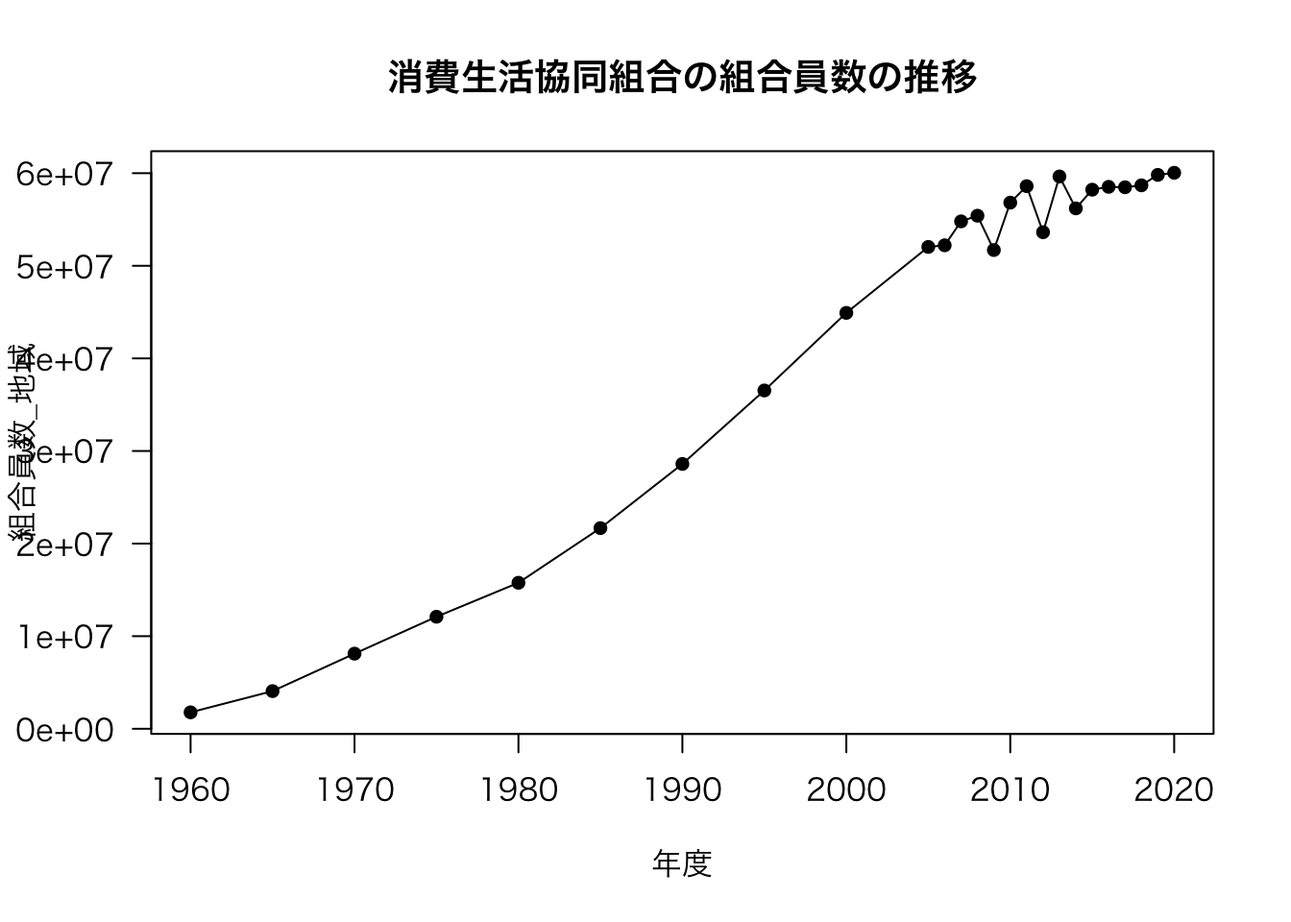
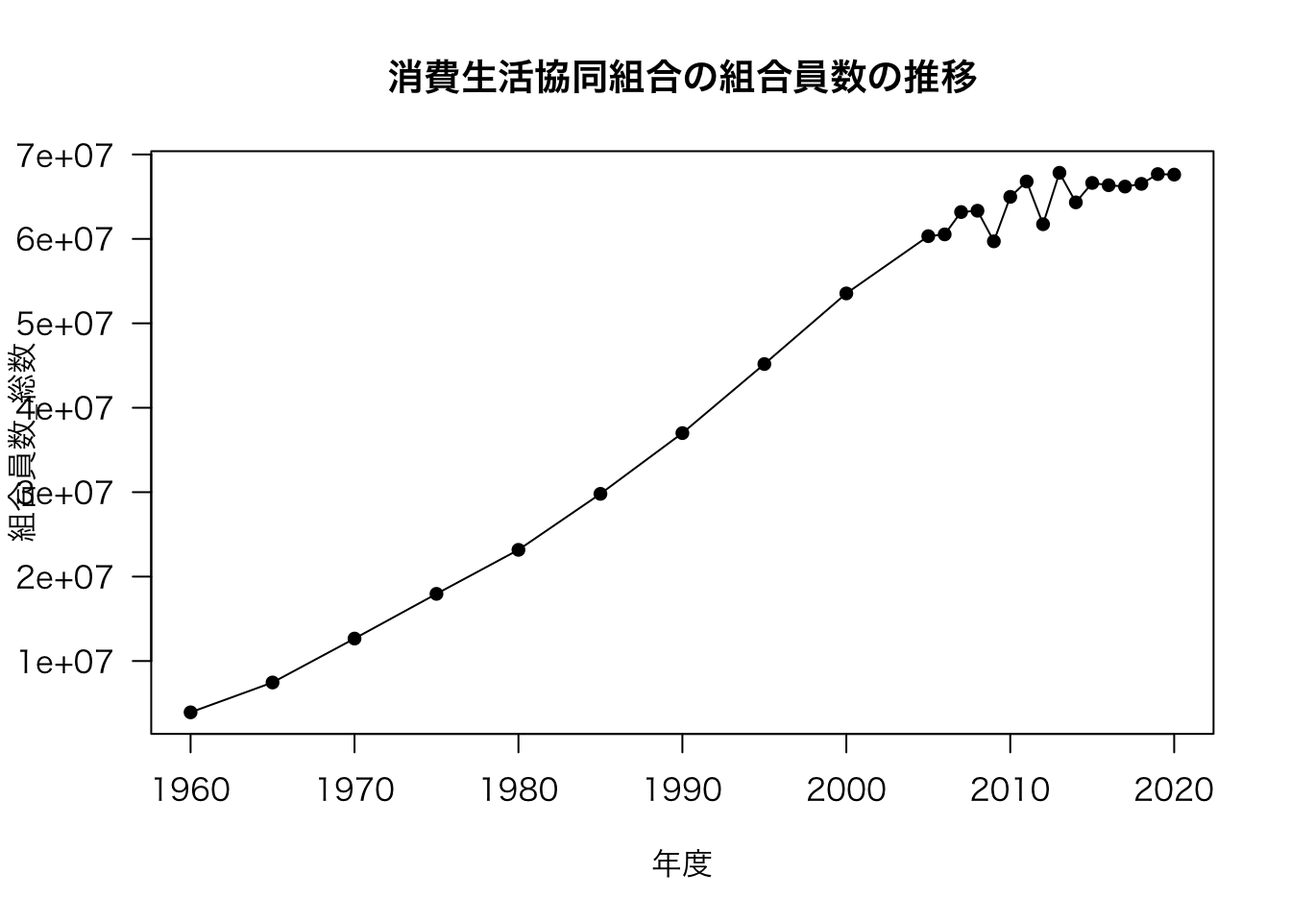
commit

diff --git a/docs/09_map.html b/docs/09_map.html
@@ -143,7 +143,7 @@ pre > code.sourceCode > span > a:first-child::before { text-decoration: underlin
 <p>r006-02-002.xlsという名前のファイルがダウンロードできる。 このファイルをRで読み込む前に，Excelで開いてみる。 これは参った。 ヘッダーがゴチャゴチャしている。 ここで，Excelではグラフ作成時にセルを指定できるから何の問題もないと考える人にとっては，以下の説明は無益である。</p>
 <section id="e-statからデータ取得" class="level2" data-number="1">
 <h2 data-number="1" class="anchored" data-anchor-id="e-statからデータ取得"><span class="header-section-number">1</span> e-Statからデータ取得</h2>
-<p><a href="https://takeshinishimura.github.io/Cooperative/02_stats_estatapi.html" target="_blank">統計データを用いた作図：e-Stat編</a>の後半では，e-StatのAPIを使って，Rに統計データを取り込んだ。 ここでも同様のことが可能である。</p>
+<p><a href="https://takeshinishimura.github.io/Cooperative/02_stats_estatapi.html" target="_blank">統計データを用いた作図：e-Stat（API）編</a>の後半では，e-StatのAPIを使って，Rに統計データを取り込んだ。 ここでも同様のことが可能である。</p>
 <p>早速，次のコードを実行し，欲しいデータが取得しよう。 なお，statsDataId = “0002003132”の数字は，e-Statの<a href="https://www.e-stat.go.jp/dbview?sid=0002003132" target="_blank">農業協同組合等現在数統計 確報 令和３年度農業協同組合等現在数統計単位農協の部 1 都道府県別業種別現在数 総括表 出資組合（第２表）、非出資組合（第３表）</a>のページを指すIDである。</p>
 <div class="cell">
 <div class="sourceCode cell-code" id="cb1"><pre class="sourceCode r code-with-copy"><code class="sourceCode r"><span id="cb1-1"><a href="#cb1-1" aria-hidden="true" tabindex="-1"></a><span class="fu">library</span>(httr)</span>
@@ -199,8 +199,8 @@ pre > code.sourceCode > span > a:first-child::before { text-decoration: underlin
 <span id="cb1-51"><a href="#cb1-51" aria-hidden="true" tabindex="-1"></a>)</span></code><button title="コピー" class="code-copy-button"><i class="bi"></i></button></pre></div>
 <div class="cell-output-display">
 
-<div class="datatables html-widget html-fill-item-overflow-hidden html-fill-item" id="htmlwidget-b7a43cce8c51b6d98c5c" style="width:100%;height:auto;"></div>
-<script type="application/json" data-for="htmlwidget-b7a43cce8c51b6d98c5c">{"x":{"filter":"none","vertical":false,"extensions":["Buttons","ColReorder"],"caption":"<caption>都道府県別業種別現在数 - 出資組合（第２表）<\/caption>","data":[["北海道","青森","岩手","宮城","秋田","山形","福島","茨城","栃木","群馬","埼玉","千葉","東京","神奈川","山梨","長野","静岡","新潟","富山","石川","福井","岐阜","愛知","三重","滋賀","京都","大阪","兵庫","奈良","和歌山","鳥取","島根","岡山","広島","山口","徳島","香川","愛媛","高知","福岡","佐賀","長崎","熊本","大分","宮崎","鹿児島","沖縄"],[2,1,1,2,null,null,2,1,null,null,1,null,null,null,2,13,2,null,null,null,4,1,null,null,null,null,null,null,null,null,5,null,null,3,3,null,null,1,null,null,null,3,null,null,2,null,null],[4,6,null,null,null,null,1,null,2,2,null,null,5,null,null,1,6,null,null,null,null,null,3,1,null,2,3,5,null,null,2,1,4,null,1,null,null,null,null,1,null,null,2,3,null,null,null],[1,null,3,null,2,1,2,5,1,null,2,1,2,null,null,4,76,1,2,1,2,2,4,2,null,1,1,null,1,1,2,null,2,1,2,null,1,1,3,5,1,5,3,2,4,3,1],[135,37,31,16,21,18,12,30,19,21,23,26,23,15,14,51,107,26,21,19,13,14,32,14,10,9,28,23,4,10,15,4,15,22,15,21,4,16,10,28,5,23,32,9,28,23,4],[109,10,9,10,13,15,5,17,12,15,16,17,15,12,8,15,17,23,15,16,2,7,20,7,9,5,14,14,1,8,3,1,2,16,3,13,1,11,4,20,4,7,13,3,13,14,1],[104,10,7,10,13,15,5,17,10,15,15,17,15,12,8,14,17,23,15,16,2,7,20,7,9,5,14,14,1,8,3,1,2,13,3,13,1,11,4,20,4,7,13,3,13,13,1],[3,null,null,null,null,null,null,null,null,null,null,null,1,null,null,null,null,null,null,null,null,null,null,null,null,null,null,null,null,null,null,null,null,null,null,null,null,null,1,null,null,null,null,null,null,null,null],[3,null,null,null,null,null,null,null,null,null,null,null,1,null,null,null,null,null,null,null,null,null,null,null,null,null,null,null,null,null,null,null,null,null,null,null,null,null,1,null,null,null,null,null,null,null,null],[9,10,3,null,3,null,null,2,null,1,1,2,null,null,null,null,null,null,1,1,1,null,1,null,null,null,2,null,1,null,1,null,null,null,1,1,null,null,null,1,null,1,2,null,4,1,null],[null,null,null,null,null,null,null,null,null,null,null,null,null,null,null,10,null,1,null,null,null,null,null,null,null,null,null,null,null,null,null,null,null,null,1,2,null,null,null,null,null,null,null,null,null,null,null],[2,1,1,null,null,null,null,null,null,null,null,null,null,null,null,null,2,null,null,null,null,null,null,null,1,null,1,null,null,null,null,1,null,null,null,null,1,null,null,null,null,null,null,null,null,null,null],[1,8,12,1,null,null,1,null,null,null,null,null,null,null,1,6,null,null,null,null,1,null,null,null,null,null,null,null,null,null,1,null,3,null,null,null,null,null,null,null,null,null,1,null,null,2,null],[2,1,null,1,null,null,null,null,null,null,1,null,null,2,null,null,null,null,null,null,1,1,3,null,null,1,3,1,1,1,null,null,1,1,1,4,null,1,1,null,null,2,1,null,3,2,1],[5,null,2,2,3,2,1,5,4,3,2,6,1,1,3,2,4,1,3,1,2,3,1,4,null,null,4,3,null,null,1,1,3,1,3,1,1,2,2,1,null,5,10,1,2,1,1]],"container":"<table class=\"display\">\n  <thead>\n    <tr>\n      <th> <\/th>\n      <th>その他<\/th>\n      <th>一般農協<\/th>\n      <th>園芸特産<\/th>\n      <th>出資組合計<\/th>\n      <th>総合農協<\/th>\n      <th>総合農協_うち共済事業を行う農協<\/th>\n      <th>総合農協_うち共済事業を行う農協_業務代理農協<\/th>\n      <th>総合農協_業務代理農協<\/th>\n      <th>畜産<\/th>\n      <th>農事放送<\/th>\n      <th>農村工業<\/th>\n      <th>牧野管理<\/th>\n      <th>養鶏<\/th>\n      <th>酪農<\/th>\n    <\/tr>\n  <\/thead>\n<\/table>","options":{"pageLength":10,"dom":"Blfrtip","buttons":[["csv","excel"],["colvis"]],"colReorder":true,"columnDefs":[{"className":"dt-right","targets":[1,2,3,4,5,6,7,8,9,10,11,12,13,14]},{"orderable":false,"targets":0}],"order":[],"autoWidth":false,"orderClasses":false}},"evals":[],"jsHooks":[]}</script>
+<div class="datatables html-widget html-fill-item-overflow-hidden html-fill-item" id="htmlwidget-5d75d951227c5082edfd" style="width:100%;height:auto;"></div>
+<script type="application/json" data-for="htmlwidget-5d75d951227c5082edfd">{"x":{"filter":"none","vertical":false,"extensions":["Buttons","ColReorder"],"caption":"<caption>都道府県別業種別現在数 - 出資組合（第２表）<\/caption>","data":[["北海道","青森","岩手","宮城","秋田","山形","福島","茨城","栃木","群馬","埼玉","千葉","東京","神奈川","山梨","長野","静岡","新潟","富山","石川","福井","岐阜","愛知","三重","滋賀","京都","大阪","兵庫","奈良","和歌山","鳥取","島根","岡山","広島","山口","徳島","香川","愛媛","高知","福岡","佐賀","長崎","熊本","大分","宮崎","鹿児島","沖縄"],[2,1,1,2,null,null,2,1,null,null,1,null,null,null,2,13,2,null,null,null,4,1,null,null,null,null,null,null,null,null,5,null,null,3,3,null,null,1,null,null,null,3,null,null,2,null,null],[4,6,null,null,null,null,1,null,2,2,null,null,5,null,null,1,6,null,null,null,null,null,3,1,null,2,3,5,null,null,2,1,4,null,1,null,null,null,null,1,null,null,2,3,null,null,null],[1,null,3,null,2,1,2,5,1,null,2,1,2,null,null,4,76,1,2,1,2,2,4,2,null,1,1,null,1,1,2,null,2,1,2,null,1,1,3,5,1,5,3,2,4,3,1],[135,37,31,16,21,18,12,30,19,21,23,26,23,15,14,51,107,26,21,19,13,14,32,14,10,9,28,23,4,10,15,4,15,22,15,21,4,16,10,28,5,23,32,9,28,23,4],[109,10,9,10,13,15,5,17,12,15,16,17,15,12,8,15,17,23,15,16,2,7,20,7,9,5,14,14,1,8,3,1,2,16,3,13,1,11,4,20,4,7,13,3,13,14,1],[104,10,7,10,13,15,5,17,10,15,15,17,15,12,8,14,17,23,15,16,2,7,20,7,9,5,14,14,1,8,3,1,2,13,3,13,1,11,4,20,4,7,13,3,13,13,1],[3,null,null,null,null,null,null,null,null,null,null,null,1,null,null,null,null,null,null,null,null,null,null,null,null,null,null,null,null,null,null,null,null,null,null,null,null,null,1,null,null,null,null,null,null,null,null],[3,null,null,null,null,null,null,null,null,null,null,null,1,null,null,null,null,null,null,null,null,null,null,null,null,null,null,null,null,null,null,null,null,null,null,null,null,null,1,null,null,null,null,null,null,null,null],[9,10,3,null,3,null,null,2,null,1,1,2,null,null,null,null,null,null,1,1,1,null,1,null,null,null,2,null,1,null,1,null,null,null,1,1,null,null,null,1,null,1,2,null,4,1,null],[null,null,null,null,null,null,null,null,null,null,null,null,null,null,null,10,null,1,null,null,null,null,null,null,null,null,null,null,null,null,null,null,null,null,1,2,null,null,null,null,null,null,null,null,null,null,null],[2,1,1,null,null,null,null,null,null,null,null,null,null,null,null,null,2,null,null,null,null,null,null,null,1,null,1,null,null,null,null,1,null,null,null,null,1,null,null,null,null,null,null,null,null,null,null],[1,8,12,1,null,null,1,null,null,null,null,null,null,null,1,6,null,null,null,null,1,null,null,null,null,null,null,null,null,null,1,null,3,null,null,null,null,null,null,null,null,null,1,null,null,2,null],[2,1,null,1,null,null,null,null,null,null,1,null,null,2,null,null,null,null,null,null,1,1,3,null,null,1,3,1,1,1,null,null,1,1,1,4,null,1,1,null,null,2,1,null,3,2,1],[5,null,2,2,3,2,1,5,4,3,2,6,1,1,3,2,4,1,3,1,2,3,1,4,null,null,4,3,null,null,1,1,3,1,3,1,1,2,2,1,null,5,10,1,2,1,1]],"container":"<table class=\"display\">\n  <thead>\n    <tr>\n      <th> <\/th>\n      <th>その他<\/th>\n      <th>一般農協<\/th>\n      <th>園芸特産<\/th>\n      <th>出資組合計<\/th>\n      <th>総合農協<\/th>\n      <th>総合農協_うち共済事業を行う農協<\/th>\n      <th>総合農協_うち共済事業を行う農協_業務代理農協<\/th>\n      <th>総合農協_業務代理農協<\/th>\n      <th>畜産<\/th>\n      <th>農事放送<\/th>\n      <th>農村工業<\/th>\n      <th>牧野管理<\/th>\n      <th>養鶏<\/th>\n      <th>酪農<\/th>\n    <\/tr>\n  <\/thead>\n<\/table>","options":{"pageLength":10,"dom":"Blfrtip","buttons":[["csv","excel"],["colvis"]],"colReorder":true,"columnDefs":[{"className":"dt-right","targets":[1,2,3,4,5,6,7,8,9,10,11,12,13,14]},{"orderable":false,"targets":0}],"order":[],"autoWidth":false,"orderClasses":false}},"evals":[],"jsHooks":[]}</script>
 </div>
 <div class="sourceCode cell-code" id="cb2"><pre class="sourceCode r code-with-copy"><code class="sourceCode r"><span id="cb2-1"><a href="#cb2-1" aria-hidden="true" tabindex="-1"></a>caption <span class="ot">&lt;-</span> <span class="st">"都道府県別業種別現在数 - 非出資組合（第３表）"</span></span>
 <span id="cb2-2"><a href="#cb2-2" aria-hidden="true" tabindex="-1"></a>DT<span class="sc">::</span><span class="fu">datatable</span>(</span>
@@ -218,8 +218,8 @@ pre > code.sourceCode > span > a:first-child::before { text-decoration: underlin
 <span id="cb2-14"><a href="#cb2-14" aria-hidden="true" tabindex="-1"></a>)</span></code><button title="コピー" class="code-copy-button"><i class="bi"></i></button></pre></div>
 <div class="cell-output-display">
 
-<div class="datatables html-widget html-fill-item-overflow-hidden html-fill-item" id="htmlwidget-5ce6cdba568df1d51d55" style="width:100%;height:auto;"></div>
-<script type="application/json" data-for="htmlwidget-5ce6cdba568df1d51d55">{"x":{"filter":"none","vertical":false,"extensions":["Buttons","ColReorder"],"caption":"<caption>都道府県別業種別現在数 - 非出資組合（第３表）<\/caption>","data":[["北海道","青森","岩手","宮城","秋田","山形","福島","茨城","栃木","群馬","埼玉","千葉","東京","神奈川","山梨","長野","静岡","新潟","富山","石川","福井","岐阜","愛知","三重","滋賀","京都","大阪","兵庫","奈良","和歌山","鳥取","島根","岡山","広島","山口","徳島","香川","愛媛","高知","福岡","佐賀","長崎","熊本","大分","宮崎","鹿児島","沖縄"],[4,8,6,1,null,null,null,null,1,null,null,1,null,null,1,24,null,null,null,null,1,null,1,null,null,null,null,null,null,1,1,null,null,null,null,null,null,null,null,null,null,null,null,null,null,null,null],[null,null,null,null,2,1,null,null,1,null,null,5,null,null,null,1,null,null,1,null,null,null,null,null,3,null,6,9,null,1,null,null,null,1,null,null,null,null,null,1,null,1,null,1,null,null,null],[null,null,null,1,null,null,null,null,null,null,null,null,null,null,7,null,null,null,null,null,null,null,null,null,null,null,null,null,null,null,null,null,null,1,null,null,null,null,1,null,null,null,null,null,null,null,null],[158,50,137,55,105,19,82,31,21,69,23,32,23,15,23,81,107,26,22,19,15,14,33,14,16,10,34,32,4,12,29,4,15,24,15,21,4,16,12,29,5,24,34,10,28,23,4],[3,null,null,null,null,null,null,null,null,null,null,null,null,null,null,null,null,null,null,null,1,null,null,null,null,null,null,null,null,null,null,null,null,null,null,null,null,null,1,null,null,null,null,null,null,null,null],[null,null,null,null,null,null,null,null,null,null,null,null,null,null,null,1,null,null,null,null,null,null,null,null,3,1,null,null,null,null,null,null,null,null,null,null,null,null,null,null,null,null,null,null,null,null,null],[4,null,null,null,null,null,null,null,null,null,null,null,null,null,null,null,null,null,null,null,null,null,null,null,null,null,null,null,null,null,null,null,null,null,null,null,null,null,null,null,null,null,null,null,null,null,null],[23,13,106,39,84,1,70,1,2,48,null,6,null,null,9,30,null,null,1,null,2,null,1,null,6,1,6,9,null,2,14,null,null,2,null,null,null,null,2,1,null,1,2,1,null,null,null],[10,5,100,37,82,null,70,1,null,48,null,null,null,null,1,4,null,null,null,null,null,null,null,null,null,null,null,null,null,null,13,null,null,null,null,null,null,null,null,null,null,null,2,null,null,null,null],[null,null,null,null,null,null,null,null,null,null,null,null,null,null,null,null,null,null,null,null,null,null,null,null,null,null,null,null,null,null,null,null,null,null,null,null,null,null,null,null,null,null,null,null,null,null,null],[2,null,null,null,null,null,null,null,null,null,null,null,null,null,null,null,null,null,null,null,null,null,null,null,null,null,null,null,null,null,null,null,null,null,null,null,null,null,null,null,null,null,null,null,null,null,null]],"container":"<table class=\"display\">\n  <thead>\n    <tr>\n      <th> <\/th>\n      <th>その他<\/th>\n      <th>一般農協<\/th>\n      <th>園芸特産<\/th>\n      <th>出資・非出資組合合計<\/th>\n      <th>畜産<\/th>\n      <th>農事放送<\/th>\n      <th>農村工業<\/th>\n      <th>非出資組合計<\/th>\n      <th>牧野管理<\/th>\n      <th>養鶏<\/th>\n      <th>酪農<\/th>\n    <\/tr>\n  <\/thead>\n<\/table>","options":{"pageLength":10,"dom":"Blfrtip","buttons":[["csv","excel"],["colvis"]],"colReorder":true,"columnDefs":[{"className":"dt-right","targets":[1,2,3,4,5,6,7,8,9,10,11]},{"orderable":false,"targets":0}],"order":[],"autoWidth":false,"orderClasses":false}},"evals":[],"jsHooks":[]}</script>
+<div class="datatables html-widget html-fill-item-overflow-hidden html-fill-item" id="htmlwidget-abdaec7aa28fbe56873e" style="width:100%;height:auto;"></div>
+<script type="application/json" data-for="htmlwidget-abdaec7aa28fbe56873e">{"x":{"filter":"none","vertical":false,"extensions":["Buttons","ColReorder"],"caption":"<caption>都道府県別業種別現在数 - 非出資組合（第３表）<\/caption>","data":[["北海道","青森","岩手","宮城","秋田","山形","福島","茨城","栃木","群馬","埼玉","千葉","東京","神奈川","山梨","長野","静岡","新潟","富山","石川","福井","岐阜","愛知","三重","滋賀","京都","大阪","兵庫","奈良","和歌山","鳥取","島根","岡山","広島","山口","徳島","香川","愛媛","高知","福岡","佐賀","長崎","熊本","大分","宮崎","鹿児島","沖縄"],[4,8,6,1,null,null,null,null,1,null,null,1,null,null,1,24,null,null,null,null,1,null,1,null,null,null,null,null,null,1,1,null,null,null,null,null,null,null,null,null,null,null,null,null,null,null,null],[null,null,null,null,2,1,null,null,1,null,null,5,null,null,null,1,null,null,1,null,null,null,null,null,3,null,6,9,null,1,null,null,null,1,null,null,null,null,null,1,null,1,null,1,null,null,null],[null,null,null,1,null,null,null,null,null,null,null,null,null,null,7,null,null,null,null,null,null,null,null,null,null,null,null,null,null,null,null,null,null,1,null,null,null,null,1,null,null,null,null,null,null,null,null],[158,50,137,55,105,19,82,31,21,69,23,32,23,15,23,81,107,26,22,19,15,14,33,14,16,10,34,32,4,12,29,4,15,24,15,21,4,16,12,29,5,24,34,10,28,23,4],[3,null,null,null,null,null,null,null,null,null,null,null,null,null,null,null,null,null,null,null,1,null,null,null,null,null,null,null,null,null,null,null,null,null,null,null,null,null,1,null,null,null,null,null,null,null,null],[null,null,null,null,null,null,null,null,null,null,null,null,null,null,null,1,null,null,null,null,null,null,null,null,3,1,null,null,null,null,null,null,null,null,null,null,null,null,null,null,null,null,null,null,null,null,null],[4,null,null,null,null,null,null,null,null,null,null,null,null,null,null,null,null,null,null,null,null,null,null,null,null,null,null,null,null,null,null,null,null,null,null,null,null,null,null,null,null,null,null,null,null,null,null],[23,13,106,39,84,1,70,1,2,48,null,6,null,null,9,30,null,null,1,null,2,null,1,null,6,1,6,9,null,2,14,null,null,2,null,null,null,null,2,1,null,1,2,1,null,null,null],[10,5,100,37,82,null,70,1,null,48,null,null,null,null,1,4,null,null,null,null,null,null,null,null,null,null,null,null,null,null,13,null,null,null,null,null,null,null,null,null,null,null,2,null,null,null,null],[null,null,null,null,null,null,null,null,null,null,null,null,null,null,null,null,null,null,null,null,null,null,null,null,null,null,null,null,null,null,null,null,null,null,null,null,null,null,null,null,null,null,null,null,null,null,null],[2,null,null,null,null,null,null,null,null,null,null,null,null,null,null,null,null,null,null,null,null,null,null,null,null,null,null,null,null,null,null,null,null,null,null,null,null,null,null,null,null,null,null,null,null,null,null]],"container":"<table class=\"display\">\n  <thead>\n    <tr>\n      <th> <\/th>\n      <th>その他<\/th>\n      <th>一般農協<\/th>\n      <th>園芸特産<\/th>\n      <th>出資・非出資組合合計<\/th>\n      <th>畜産<\/th>\n      <th>農事放送<\/th>\n      <th>農村工業<\/th>\n      <th>非出資組合計<\/th>\n      <th>牧野管理<\/th>\n      <th>養鶏<\/th>\n      <th>酪農<\/th>\n    <\/tr>\n  <\/thead>\n<\/table>","options":{"pageLength":10,"dom":"Blfrtip","buttons":[["csv","excel"],["colvis"]],"colReorder":true,"columnDefs":[{"className":"dt-right","targets":[1,2,3,4,5,6,7,8,9,10,11]},{"orderable":false,"targets":0}],"order":[],"autoWidth":false,"orderClasses":false}},"evals":[],"jsHooks":[]}</script>
 </div>
 <div class="sourceCode cell-code" id="cb3"><pre class="sourceCode r code-with-copy"><code class="sourceCode r"><span id="cb3-1"><a href="#cb3-1" aria-hidden="true" tabindex="-1"></a>caption <span class="ot">&lt;-</span> <span class="st">"都道府県別業種別現在数 - （参考１）　出資組合と非出資組合の計（専門農協、業種別）"</span></span>
 <span id="cb3-2"><a href="#cb3-2" aria-hidden="true" tabindex="-1"></a>DT<span class="sc">::</span><span class="fu">datatable</span>(</span>
@@ -237,8 +237,8 @@ pre > code.sourceCode > span > a:first-child::before { text-decoration: underlin
 <span id="cb3-14"><a href="#cb3-14" aria-hidden="true" tabindex="-1"></a>)</span></code><button title="コピー" class="code-copy-button"><i class="bi"></i></button></pre></div>
 <div class="cell-output-display">
 
-<div class="datatables html-widget html-fill-item-overflow-hidden html-fill-item" id="htmlwidget-692ad369382d52bd0abe" style="width:100%;height:auto;"></div>
-<script type="application/json" data-for="htmlwidget-692ad369382d52bd0abe">{"x":{"filter":"none","vertical":false,"extensions":["Buttons","ColReorder"],"caption":"<caption>都道府県別業種別現在数 - （参考１）　出資組合と非出資組合の計（専門農協、業種別）<\/caption>","data":[["北海道","青森","岩手","宮城","秋田","山形","福島","茨城","栃木","群馬","埼玉","千葉","東京","神奈川","山梨","長野","静岡","新潟","富山","石川","福井","岐阜","愛知","三重","滋賀","京都","大阪","兵庫","奈良","和歌山","鳥取","島根","岡山","広島","山口","徳島","香川","愛媛","高知","福岡","佐賀","長崎","熊本","大分","宮崎","鹿児島","沖縄"],[6,9,7,3,null,null,2,1,1,null,1,1,null,null,3,37,2,null,null,null,5,1,1,null,null,null,null,null,null,1,6,null,null,3,3,null,null,1,null,null,null,3,null,null,2,null,null],[4,6,null,null,2,1,1,null,3,2,null,5,5,null,null,2,6,null,1,null,null,null,3,1,3,2,9,14,null,1,2,1,4,1,1,null,null,null,null,2,null,1,2,4,null,null,null],[1,null,3,1,2,1,2,5,1,null,2,1,2,null,7,4,76,1,2,1,2,2,4,2,null,1,1,null,1,1,2,null,2,2,2,null,1,1,4,5,1,5,3,2,4,3,1],[49,40,128,45,92,4,77,14,9,54,7,15,8,3,15,66,90,3,7,3,13,7,13,7,7,5,20,18,3,4,26,3,13,8,12,8,3,5,8,9,1,17,21,7,15,9,3],[12,10,3,null,3,null,null,2,null,1,1,2,null,null,null,null,null,null,1,1,2,null,1,null,null,null,2,null,1,null,1,null,null,null,1,1,null,null,1,1,null,1,2,null,4,1,null],[null,null,null,null,null,null,null,null,null,null,null,null,null,null,null,11,null,1,null,null,null,null,null,null,3,1,null,null,null,null,null,null,null,null,1,2,null,null,null,null,null,null,null,null,null,null,null],[6,1,1,null,null,null,null,null,null,null,null,null,null,null,null,null,2,null,null,null,null,null,null,null,1,null,1,null,null,null,null,1,null,null,null,null,1,null,null,null,null,null,null,null,null,null,null],[11,13,112,38,82,null,71,1,null,48,null,null,null,null,2,10,null,null,null,null,1,null,null,null,null,null,null,null,null,null,14,null,3,null,null,null,null,null,null,null,null,null,3,null,null,2,null],[2,1,null,1,null,null,null,null,null,null,1,null,null,2,null,null,null,null,null,null,1,1,3,null,null,1,3,1,1,1,null,null,1,1,1,4,null,1,1,null,null,2,1,null,3,2,1],[7,null,2,2,3,2,1,5,4,3,2,6,1,1,3,2,4,1,3,1,2,3,1,4,null,null,4,3,null,null,1,1,3,1,3,1,1,2,2,1,null,5,10,1,2,1,1]],"container":"<table class=\"display\">\n  <thead>\n    <tr>\n      <th> <\/th>\n      <th>その他<\/th>\n      <th>一般農協<\/th>\n      <th>園芸特産<\/th>\n      <th>計<\/th>\n      <th>畜産<\/th>\n      <th>農事放送<\/th>\n      <th>農村工業<\/th>\n      <th>牧野管理<\/th>\n      <th>養鶏<\/th>\n      <th>酪農<\/th>\n    <\/tr>\n  <\/thead>\n<\/table>","options":{"pageLength":10,"dom":"Blfrtip","buttons":[["csv","excel"],["colvis"]],"colReorder":true,"columnDefs":[{"className":"dt-right","targets":[1,2,3,4,5,6,7,8,9,10]},{"orderable":false,"targets":0}],"order":[],"autoWidth":false,"orderClasses":false}},"evals":[],"jsHooks":[]}</script>
+<div class="datatables html-widget html-fill-item-overflow-hidden html-fill-item" id="htmlwidget-58abb52216498cc1fa97" style="width:100%;height:auto;"></div>
+<script type="application/json" data-for="htmlwidget-58abb52216498cc1fa97">{"x":{"filter":"none","vertical":false,"extensions":["Buttons","ColReorder"],"caption":"<caption>都道府県別業種別現在数 - （参考１）　出資組合と非出資組合の計（専門農協、業種別）<\/caption>","data":[["北海道","青森","岩手","宮城","秋田","山形","福島","茨城","栃木","群馬","埼玉","千葉","東京","神奈川","山梨","長野","静岡","新潟","富山","石川","福井","岐阜","愛知","三重","滋賀","京都","大阪","兵庫","奈良","和歌山","鳥取","島根","岡山","広島","山口","徳島","香川","愛媛","高知","福岡","佐賀","長崎","熊本","大分","宮崎","鹿児島","沖縄"],[6,9,7,3,null,null,2,1,1,null,1,1,null,null,3,37,2,null,null,null,5,1,1,null,null,null,null,null,null,1,6,null,null,3,3,null,null,1,null,null,null,3,null,null,2,null,null],[4,6,null,null,2,1,1,null,3,2,null,5,5,null,null,2,6,null,1,null,null,null,3,1,3,2,9,14,null,1,2,1,4,1,1,null,null,null,null,2,null,1,2,4,null,null,null],[1,null,3,1,2,1,2,5,1,null,2,1,2,null,7,4,76,1,2,1,2,2,4,2,null,1,1,null,1,1,2,null,2,2,2,null,1,1,4,5,1,5,3,2,4,3,1],[49,40,128,45,92,4,77,14,9,54,7,15,8,3,15,66,90,3,7,3,13,7,13,7,7,5,20,18,3,4,26,3,13,8,12,8,3,5,8,9,1,17,21,7,15,9,3],[12,10,3,null,3,null,null,2,null,1,1,2,null,null,null,null,null,null,1,1,2,null,1,null,null,null,2,null,1,null,1,null,null,null,1,1,null,null,1,1,null,1,2,null,4,1,null],[null,null,null,null,null,null,null,null,null,null,null,null,null,null,null,11,null,1,null,null,null,null,null,null,3,1,null,null,null,null,null,null,null,null,1,2,null,null,null,null,null,null,null,null,null,null,null],[6,1,1,null,null,null,null,null,null,null,null,null,null,null,null,null,2,null,null,null,null,null,null,null,1,null,1,null,null,null,null,1,null,null,null,null,1,null,null,null,null,null,null,null,null,null,null],[11,13,112,38,82,null,71,1,null,48,null,null,null,null,2,10,null,null,null,null,1,null,null,null,null,null,null,null,null,null,14,null,3,null,null,null,null,null,null,null,null,null,3,null,null,2,null],[2,1,null,1,null,null,null,null,null,null,1,null,null,2,null,null,null,null,null,null,1,1,3,null,null,1,3,1,1,1,null,null,1,1,1,4,null,1,1,null,null,2,1,null,3,2,1],[7,null,2,2,3,2,1,5,4,3,2,6,1,1,3,2,4,1,3,1,2,3,1,4,null,null,4,3,null,null,1,1,3,1,3,1,1,2,2,1,null,5,10,1,2,1,1]],"container":"<table class=\"display\">\n  <thead>\n    <tr>\n      <th> <\/th>\n      <th>その他<\/th>\n      <th>一般農協<\/th>\n      <th>園芸特産<\/th>\n      <th>計<\/th>\n      <th>畜産<\/th>\n      <th>農事放送<\/th>\n      <th>農村工業<\/th>\n      <th>牧野管理<\/th>\n      <th>養鶏<\/th>\n      <th>酪農<\/th>\n    <\/tr>\n  <\/thead>\n<\/table>","options":{"pageLength":10,"dom":"Blfrtip","buttons":[["csv","excel"],["colvis"]],"colReorder":true,"columnDefs":[{"className":"dt-right","targets":[1,2,3,4,5,6,7,8,9,10]},{"orderable":false,"targets":0}],"order":[],"autoWidth":false,"orderClasses":false}},"evals":[],"jsHooks":[]}</script>
 </div>
 </div>
 <p>これらのデータをよく見ると，次のリンク先のページからダウンロードできるExcelファイルの内容も含んでいることが確認できる。 実際にダウンロードして確認してみよう。</p>
@@ -388,14 +388,16 @@ pre > code.sourceCode > span > a:first-child::before { text-decoration: underlin
 <span id="cb12-8"><a href="#cb12-8" aria-hidden="true" tabindex="-1"></a><span class="co"># geom_textvline(label = paste0("mean = ", round(mean(dfja2_en$Multifunctional), 1)), xintercept = mean(dfja2_en$Multifunctional), colour = "gray60", linetype = "dashed", hjust = 0, vjust = -.5) +</span></span>
 <span id="cb12-9"><a href="#cb12-9" aria-hidden="true" tabindex="-1"></a>  <span class="fu">labs</span>(<span class="at">y =</span> <span class="st">"総合農協の数"</span>, <span class="at">title =</span> <span class="st">"都道府県別総合農協数"</span>) <span class="sc">+</span></span>
 <span id="cb12-10"><a href="#cb12-10" aria-hidden="true" tabindex="-1"></a>  <span class="fu">theme_minimal</span>() <span class="sc">+</span></span>
-<span id="cb12-11"><a href="#cb12-11" aria-hidden="true" tabindex="-1"></a>  <span class="fu">scale_color_brewer</span>(<span class="at">palette =</span> <span class="st">"Set1"</span>, <span class="at">direction =</span> <span class="dv">1</span>) <span class="sc">+</span></span>
-<span id="cb12-12"><a href="#cb12-12" aria-hidden="true" tabindex="-1"></a>  <span class="fu">theme</span>(<span class="at">legend.position =</span> <span class="st">"none"</span>) <span class="sc">+</span></span>
-<span id="cb12-13"><a href="#cb12-13" aria-hidden="true" tabindex="-1"></a>  <span class="fu">theme</span>(<span class="at">axis.title =</span> <span class="fu">element_blank</span>())</span>
-<span id="cb12-14"><a href="#cb12-14" aria-hidden="true" tabindex="-1"></a>g <span class="sc">+</span> <span class="fu">theme</span>(<span class="at">text =</span> <span class="fu">element_text</span>(<span class="at">family =</span> <span class="st">"HiraKakuProN-W3"</span>))</span></code><button title="コピー" class="code-copy-button"><i class="bi"></i></button></pre></div>
+<span id="cb12-11"><a href="#cb12-11" aria-hidden="true" tabindex="-1"></a>  <span class="fu">scale_color_brewer</span>(<span class="at">palette =</span> <span class="st">"Paired"</span>, <span class="at">direction =</span> <span class="dv">1</span>) <span class="sc">+</span></span>
+<span id="cb12-12"><a href="#cb12-12" aria-hidden="true" tabindex="-1"></a><span class="co"># scale_color_brewer(palette = "Paired", direction = -1) +</span></span>
+<span id="cb12-13"><a href="#cb12-13" aria-hidden="true" tabindex="-1"></a>  <span class="fu">theme</span>(<span class="at">legend.position =</span> <span class="st">"none"</span>) <span class="sc">+</span></span>
+<span id="cb12-14"><a href="#cb12-14" aria-hidden="true" tabindex="-1"></a>  <span class="fu">theme</span>(<span class="at">axis.title =</span> <span class="fu">element_blank</span>())</span>
+<span id="cb12-15"><a href="#cb12-15" aria-hidden="true" tabindex="-1"></a>g <span class="sc">+</span> <span class="fu">theme</span>(<span class="at">text =</span> <span class="fu">element_text</span>(<span class="at">family =</span> <span class="st">"HiraKakuProN-W3"</span>))</span></code><button title="コピー" class="code-copy-button"><i class="bi"></i></button></pre></div>
 <div class="cell-output-display">
 <p><img src="09_map_files/figure-html/unnamed-chunk-7-1.png" class="img-fluid" width="672"></p>
 </div>
 </div>
+<p>ここでは，総合農協の数が全国平均より少ない都道府県を強調している。 逆に，多い都道府県を強調したければ，directionを-1にするだけでよい。</p>
 <p>これらのグラフは諦めて，日本地図に表示するとどうなるだろうか。</p>
 </section>
 <section id="都道府県別に色分けした地図" class="level2" data-number="3">

diff --git a/docs/02_stats_estat.html b/docs/02_stats_estat.html
@@ -127,13 +127,14 @@ pre > code.sourceCode > span > a:first-child::before { text-decoration: underlin
 </div>
 </div>
 </div>
-<p>さて，ここからどのようにして折れ線グラフを描こうか。 上述のサイトからExcel形式でファイルをダウンロードできるので，ダウンロードしてみる。 2-1.xlsxというファイル名で，ファイルがダウンロードされたはずである。 あとは，Microsoft Officeを構成するアプリケーションのひとつであるExcelを起動して，ファイルを開き，Excelの機能を使って折れ線グラフを作成することができる。 Excelの図で満足できる人はこれで終わりである。 ちまちまとマウスをクリックしながら，はたまた数値を別のセルに移動させながら，折れ線グラフを作成するとよい。 以下の説明は，Excelでは満足できない人のためのものである。</p>
+<p>さて，ここからどのようにして折れ線グラフを描こうか。 上述のサイトからExcel形式でファイルをダウンロードできるので，ダウンロードしてみよう。 2-1.xlsxという名前のファイルがダウンロードされたはずである。</p>
+<p>あとは，Microsoft Officeを構成するアプリケーションのひとつであるExcelを起動して，ファイルを開き，Excelの機能を使って折れ線グラフを作成できる。 Excelの図で満足できる人はこれで終わりである。 ちまちまとマウスをクリックしながら，はたまた数値を別のセルに移動させながら，折れ線グラフを作成するとよい。 以下の説明は，Excelでは満足できない人のためのものである。</p>
 <p>これ以降は，<a href="https://cran.r-project.org/banner.shtml">The Comprehensive R Archive Network</a>から自分のパソコンのOSに合ったファイルをダウンロードして，自分のパソコンにインストールしておかなければならない。</p>
 <section id="excelファイルをrで扱う" class="level2" data-number="1">
 <h2 data-number="1" class="anchored" data-anchor-id="excelファイルをrで扱う"><span class="header-section-number">1</span> ExcelファイルをRで扱う</h2>
 <section id="作業ディレクトリの変更" class="level3" data-number="1.1">
 <h3 data-number="1.1" class="anchored" data-anchor-id="作業ディレクトリの変更"><span class="header-section-number">1.1</span> 作業ディレクトリの変更</h3>
-<p>まず，Rを起動し，現在，パソコンのどこにいるのかを確認する。 「どこ」というのは，自分のパソコンのディレクトリ（フォルダとも呼ぶ）構成の「どこ」にいるのかという意味であり，Windowsなら”C:“から始まり，macOSなら”/“から始まる階層構造における位置のことである。 何も設定をしていなければ，Rの起動直後は，ホームディレクトリにいるはずである。 次のコマンドで，自分がどこにいるか（カレントディレクトリの場所）を確認できる。</p>
+<p>まず，Rを起動し，現在，パソコンのどこにいるのかを確認する。 「どこ」というのは，自分のパソコンのディレクトリ（フォルダとも呼ぶ）構成の「どこ」にいるのかという意味であり，Windowsなら “C:” から始まり，macOSなら “/” から始まる階層構造における位置のことである。 何も設定をしていなければ，Rの起動直後は，ホームディレクトリにいるはずである。 次のコマンドで，自分がどこにいるか（カレントディレクトリの場所）を確認できる。</p>
 <div class="cell">
 <div class="sourceCode cell-code" id="cb1"><pre class="sourceCode r code-with-copy"><code class="sourceCode r"><span id="cb1-1"><a href="#cb1-1" aria-hidden="true" tabindex="-1"></a><span class="fu">getwd</span>()</span></code><button title="コピー" class="code-copy-button"><i class="bi"></i></button></pre></div>
 </div>
@@ -141,7 +142,7 @@ pre > code.sourceCode > span > a:first-child::before { text-decoration: underlin
 <div class="cell">
 <div class="sourceCode cell-code" id="cb2"><pre class="sourceCode r code-with-copy"><code class="sourceCode r"><span id="cb2-1"><a href="#cb2-1" aria-hidden="true" tabindex="-1"></a><span class="fu">setwd</span>(<span class="st">"~"</span>)</span></code><button title="コピー" class="code-copy-button"><i class="bi"></i></button></pre></div>
 </div>
-<p>“~”はホームディレクトリを意味する。 “~”を自分が作業したいところにすればよい。 よくわからないと思うので，最初は先ほどダウンロードしたExcelファイルをホームディレクトリに移動して，そこで作業するのも悪くない。 Excelファイルの移動は，Windowsならエクスプローラーを使い，macOSならファインダーを使えばよい。 この場合，作業ディレクトリは変更する必要がない。</p>
+<p>“~” はホームディレクトリを意味する。 “~” を自分が作業したいところに変更すればよい。 よくわからないと思うので，最初は先ほどダウンロードしたExcelファイルをホームディレクトリに移動して，そこで作業するのも悪くない。 Excelファイルの移動は，Windowsならエクスプローラーを使い，macOSならファインダーを使えばよい。 この場合，作業ディレクトリは変更する必要がない。</p>
 </section>
 <section id="excelファイルの読み込み" class="level3" data-number="1.2">
 <h3 data-number="1.2" class="anchored" data-anchor-id="excelファイルの読み込み"><span class="header-section-number">1.2</span> Excelファイルの読み込み</h3>
@@ -231,8 +232,7 @@ pre > code.sourceCode > span > a:first-child::before { text-decoration: underlin
 <p><img src="02_stats_estat_files/figure-html/unnamed-chunk-8-1.png" class="img-fluid" width="672"></p>
 </div>
 </div>
-<p>macOSの場合，文字化けする（トーフになる）かもしれない。 回避策はあるが，該当箇所を英語にするのが早い。 Rの操作方法に慣れてきたらこういうことに気を配ればよく，今のところ気にする必要はない（自分のせいではないと思うことが大事）。</p>
-<p>とりあえず，<a href="https://okumuralab.org/~okumura/stat/Rprofile.html" target="_blank">~/.Rprofile</a>や<a href="https://github.com/Gedevan-Aleksizde/fontregisterer" target="_blank">fontregisterer</a> などを参考にするとよい。 よく分からない場合は文字化けしたまま進めばよい。</p>
+<p>macOSの場合，文字化けする（トーフになる）かもしれない。 回避策はあるが，該当箇所を英語にするのが早い。 Rの操作方法に慣れてきたらこういうことに気を配ればよく，今のところ気にする必要はない（自分のせいではないと思うことが大事）。 気になるようであれば，<a href="https://okumuralab.org/~okumura/stat/Rprofile.html" target="_blank">~/.Rprofile</a>や<a href="https://github.com/Gedevan-Aleksizde/fontregisterer" target="_blank">fontregisterer</a> などを参考にするとよい。 よく分からない場合は文字化けしたまま進めばよい。</p>
 <p>先ほどの図をよく見ると，2005年までは点の数が少ないことがわかる。 これは，元データを正しく反映したものである。</p>
 <div class="cell">
 <div class="sourceCode cell-code" id="cb11"><pre class="sourceCode r code-with-copy"><code class="sourceCode r"><span id="cb11-1"><a href="#cb11-1" aria-hidden="true" tabindex="-1"></a>dfcoop[, <span class="st">"年度"</span>]</span></code><button title="コピー" class="code-copy-button"><i class="bi"></i></button></pre></div>
@@ -244,7 +244,7 @@ pre > code.sourceCode > span > a:first-child::before { text-decoration: underlin
 <p>このことから，Rでは何も指定しなくても，軸のスケールを正しく反映した図が描かれることがわかる。</p>
 <p>続いて，組合員数の図を描画してみる。</p>
 <div class="cell">
-<div class="sourceCode cell-code" id="cb13"><pre class="sourceCode r code-with-copy"><code class="sourceCode r"><span id="cb13-1"><a href="#cb13-1" aria-hidden="true" tabindex="-1"></a><span class="fu">plot</span>(dfcoop[, <span class="fu">c</span>(<span class="st">"年度"</span>, <span class="st">"組合員数_地域"</span>)], <span class="at">type =</span> <span class="st">"o"</span>, <span class="at">main =</span> <span class="st">"消費生活協同組合の組合員数の推移"</span>, <span class="at">xlab =</span> <span class="st">"年度"</span>, <span class="at">pch =</span> <span class="dv">16</span>, <span class="at">las =</span> <span class="dv">1</span>)</span></code><button title="コピー" class="code-copy-button"><i class="bi"></i></button></pre></div>
+<div class="sourceCode cell-code" id="cb13"><pre class="sourceCode r code-with-copy"><code class="sourceCode r"><span id="cb13-1"><a href="#cb13-1" aria-hidden="true" tabindex="-1"></a><span class="fu">plot</span>(dfcoop[, <span class="fu">c</span>(<span class="st">"年度"</span>, <span class="st">"組合員数_総数"</span>)], <span class="at">type =</span> <span class="st">"o"</span>, <span class="at">main =</span> <span class="st">"消費生活協同組合の組合員数の推移"</span>, <span class="at">xlab =</span> <span class="st">"年度"</span>, <span class="at">pch =</span> <span class="dv">16</span>, <span class="at">las =</span> <span class="dv">1</span>)</span></code><button title="コピー" class="code-copy-button"><i class="bi"></i></button></pre></div>
 <div class="cell-output-display">
 <p><img src="02_stats_estat_files/figure-html/unnamed-chunk-10-1.png" class="img-fluid" width="672"></p>
 </div>

diff --git a/README.md b/README.md
@@ -1,6 +1,6 @@
 # 協同組合論
 
-協同組合論の補足資料のページです。
+![ロゴ](協同組合論-logos.jpeg "ロゴ") 協同組合論の補足資料のページです。
 
 このページに協同組合論の予習・復習に使える情報を掲載しています。
 とくに学生が復習で使うことを意識して書いており，RやPythonといったプログラミング言語を独習したい方に有益な情報があります。
